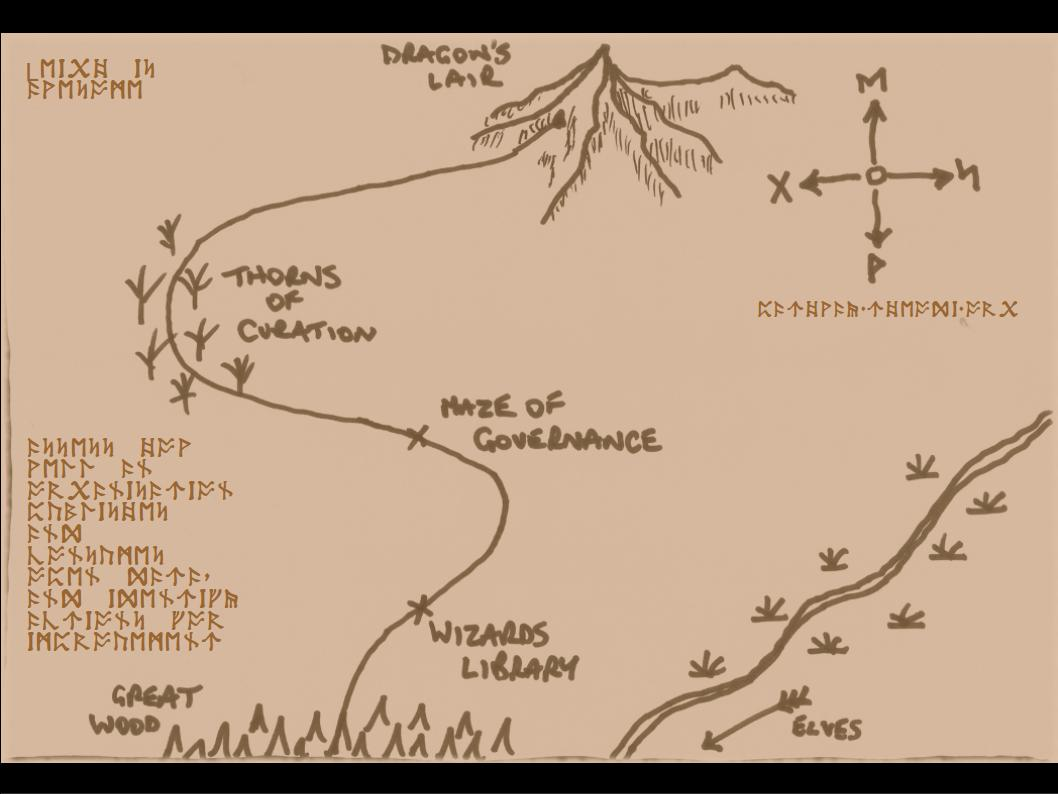
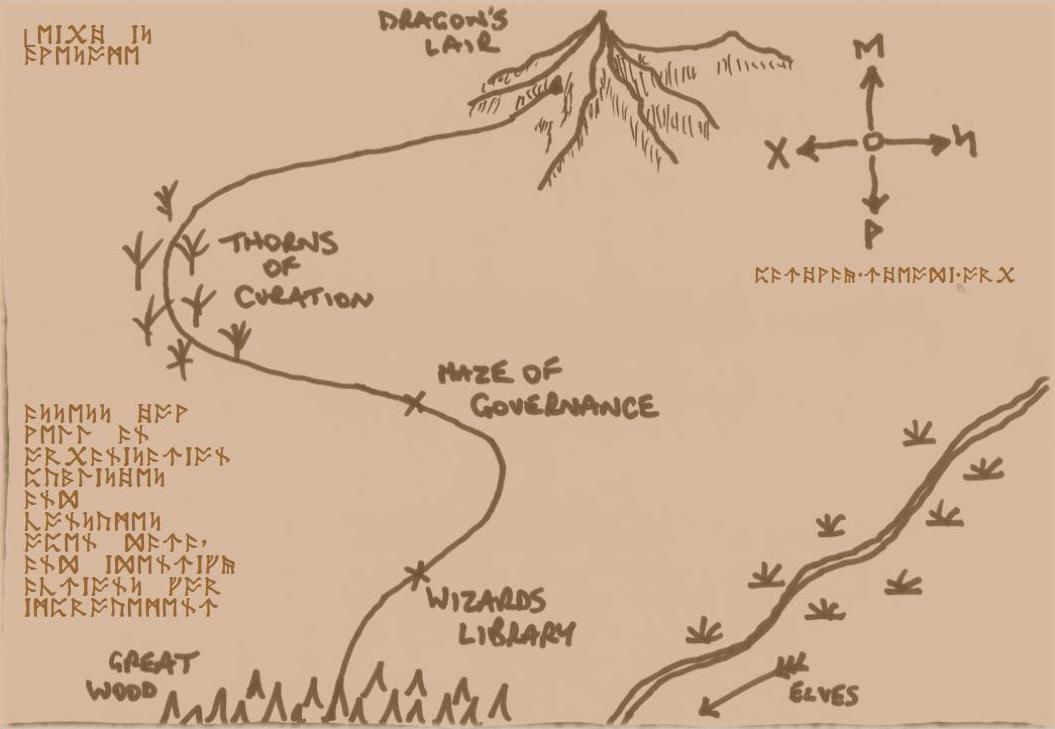
fixed image borders, moved buttons

Changed region(s): [[0.0, 0.4225, 1.0, 1.0], [0.0, 0.0, 1.0, 0.513], [0.3336, 0.4829, 0.637, 0.6337]]

diff --git a/index.html b/index.html
@@ -23,25 +23,15 @@
 			<nav>
 				<div class="nav-wrapper brown lighten-1">
 					<a href="#" class="brand-logo center lime-text" id="pageTitle">DnD Machine</a>
-					<ul id="nav-mobile" class="left hide-on-med-and-down">
-						<li>
-							<button data-target="modal1"
-								class="waves-effect waves-light btn modal-trigger lime black-text hoverable"
-								id="new-character">
-								New Character
-							</button>
-							<button data-target="null"
-								class="waves-effect waves-light btn modal-trigger lime black-text hoverable"
-								id="play-music">
-								Play Music/Get random quote
-							</button>
-						</li>
-					</ul>
 				</div>
 			</nav>
 
 			<main class="row">
 				<aside id="character-element" class="col s12 m3">
+					<button data-target="modal1"
+						class="waves-effect waves-light btn modal-trigger lime black-text hoverable col s12" id="new-character">
+						New Character
+					</button>
 					<img src="./assets/media/dndeightbitwarr.jpeg" alt="dnd warrior character" width="200px" />
 					<div id="skills-stats">
 						<ul id="player-ul">
@@ -58,11 +48,6 @@
 						<p id="playerHpLabel">Health</p>
 						<h1 class="red darken-4" id="playerHp">100</h1>
 					</div>
-
-					<button data-target="modal3"
-						class="waves-effect waves-light btn modal-trigger lime black-text hoverable" id="start-battle">
-						Battle
-					</button>
 
 					<!-- Modal on new start battle click -->
 					<div id="modal3" class="modal lime">
@@ -172,11 +157,20 @@
 						</div>
 					</div>
 				</aside>
-				<section id="map" class="col s12 m9">
-					<img src="./assets/media/27107457885_ebba66b7c1_o.jpg" alt="simple map" />
+				<section id="map" class="col s12 m9 center-align">
+					<div class="row center-align">
+
+						<button data-target="modal3"
+							class="waves-effect waves-light btn modal-trigger lime black-text hoverable"
+							id="start-battle">
+							Battle
+						</button>
+					</div>
+					<img class="responsive-img" src="./assets/media/27107457885_ebba66b7c1_o.jpg" alt="simple map" />
 					<!--https://www.flickr.com/photos/35034348373@N01/27107457885-->
 				</section>
 			</main>
+			<br>
 			<section class="row center-align" id="quote-section">
 				<h5 class="center lime-text" id="quote-text"></h5>
 				<button class="waves-effect waves-light btn lime black-text hoverable" id="lotr-quote-btn">
@@ -184,18 +178,20 @@
 				</button>
 			</section>
 
+			<footer> placeholder </footer>
+
 			<!-- Compiled and minified JQuery -->
 			<script src="https://code.jquery.com/jquery-3.6.0.min.js"
 				integrity="sha256-/xUj+3OJU5yExlq6GSYGSHk7tPXikynS7ogEvDej/m4=" crossorigin="anonymous"></script>
 			<!-- Compiled and minified JavaScript materialize -->
 			<script src="https://cdnjs.cloudflare.com/ajax/libs/materialize/1.0.0/js/materialize.min.js"></script>
 			<script src="./assets/js/logic.js"></script>
-			<<<<<<< HEAD <script async src="./assets/js/spotifyPlayer.js">
-				</script>
-				=======
-				<script src="./assets/js/lotrgen.js"></script>
-				<script src="./assets/js/spotifyAPI.js"></script>
-				>>>>>>> ptr
+			<script async src="./assets/js/spotifyPlayer.js">
+			</script>
+
+			<script src="./assets/js/lotrgen.js"></script>
+			<script src="./assets/js/spotifyAPI.js"></script>
+
 		</body>
 
 </html>

diff --git a/assets/css/style.css b/assets/css/style.css
@@ -1,13 +1,16 @@
 * {
 	font-family: 'Press Start 2P', cursive;
 }
-
-#new-character {
-	margin-left: 30px;
+button {
 	font-family: 'Press Start 2P', cursive;
 }
-#play-music {
-	font-family: 'Press Start 2P', cursive;
+
+header {
+	height: fit-content;
+}
+
+#new-character {
+	margin-bottom: 10px;
 }
 #character-element {
 	margin-top: 30px;
@@ -32,4 +35,10 @@
 }
 #player-hp-bar {
 	width: 100%;
+}
+
+#start-battle {
+	font-size: 2em;
+	height: 3em;
+	font-family: 'Press Start 2P', cursive;
 }
